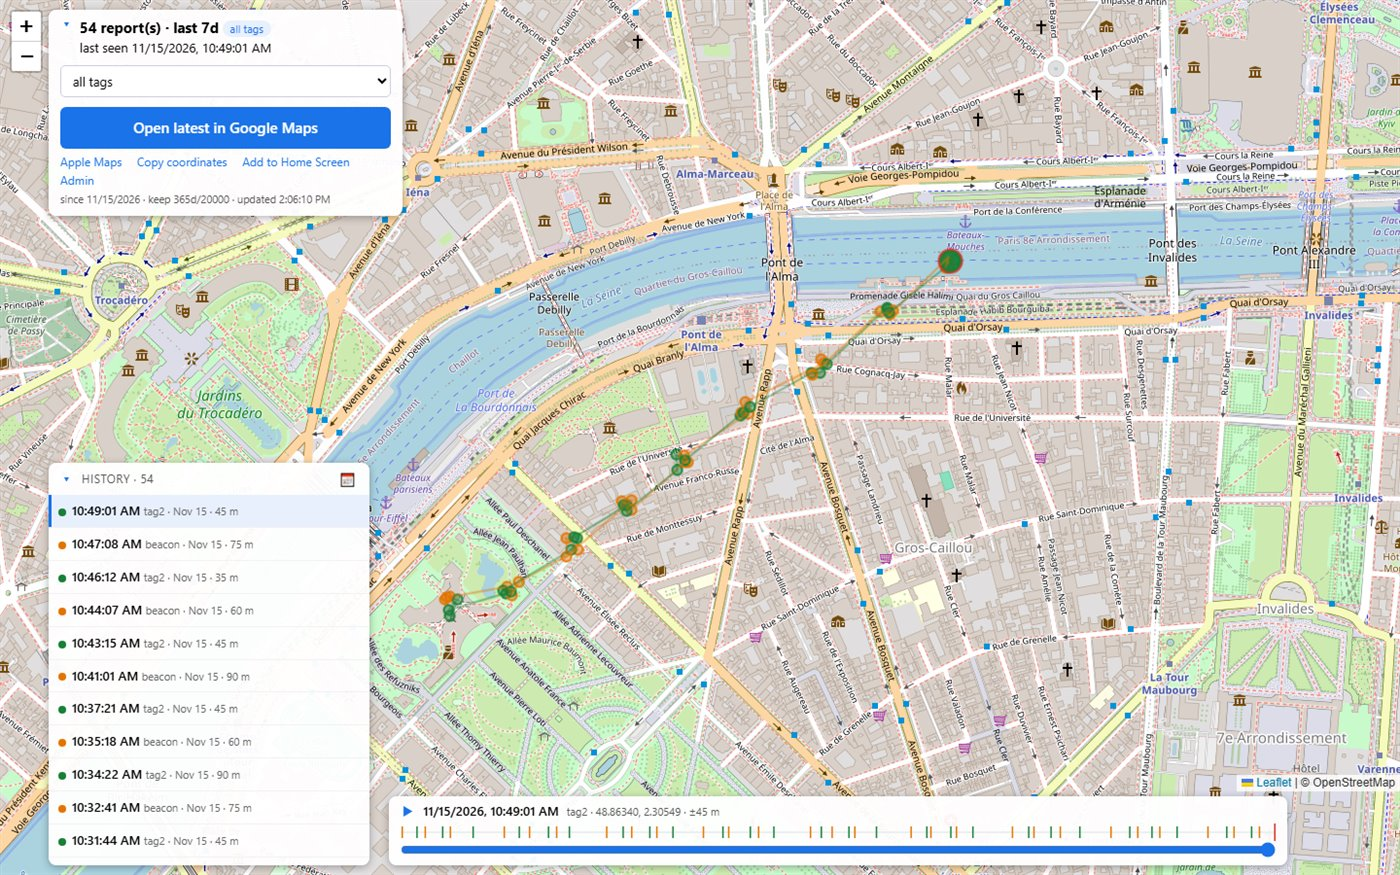
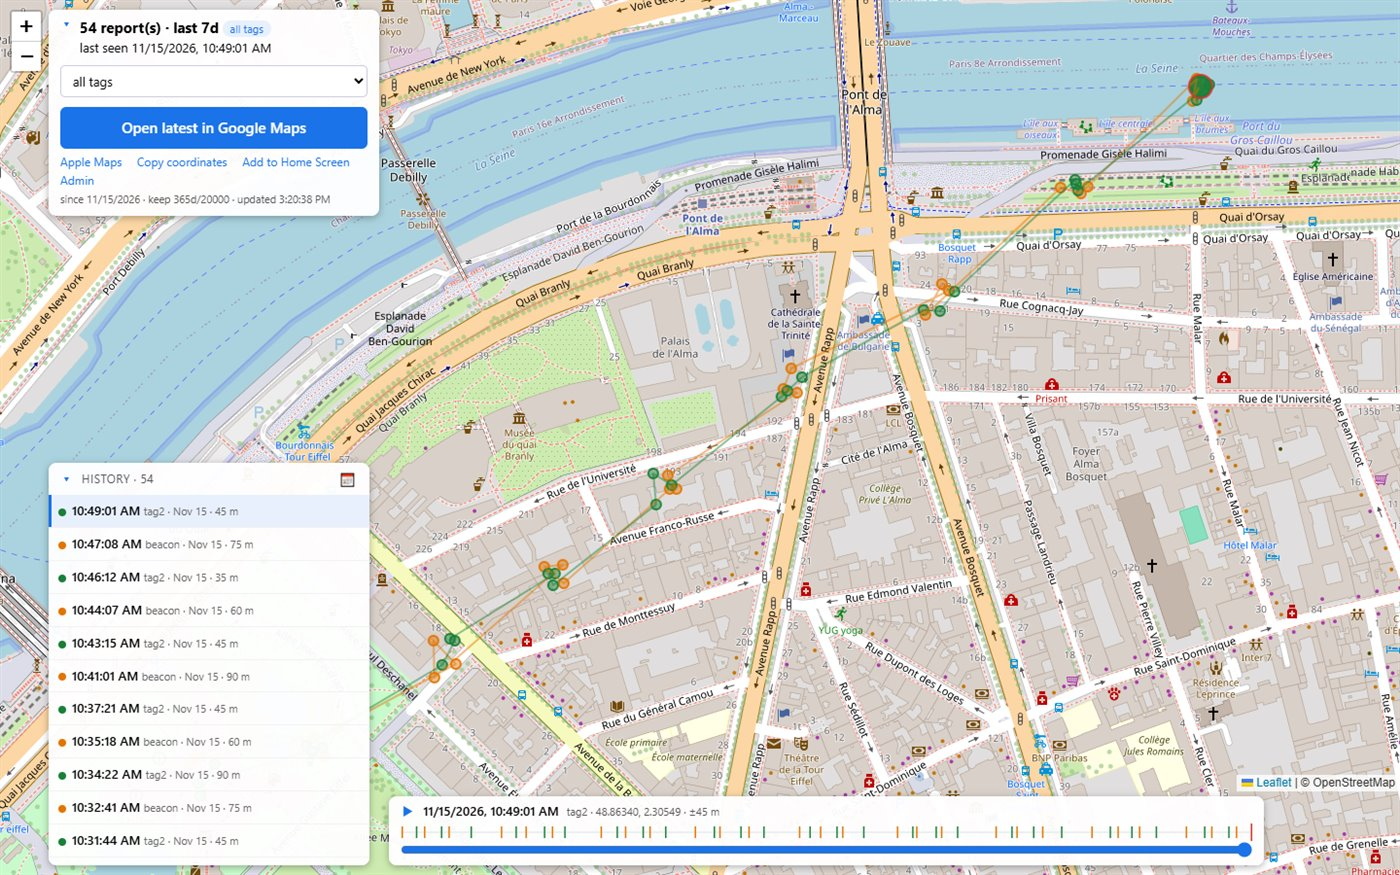
Add the printed case and images: board, buck module, case render, new screenshots

diff --git a/README.md b/README.md
@@ -26,10 +26,23 @@ real tag was there.*
 | Port | `COM9` — native USB Serial/JTAG (`VID 303A / PID 1001`) |
 | Antenna | U.FL external antenna — **must be attached**, BLE range is tiny without it |
 
+<p>
+  <img src="docs/images/xiao-esp32c3.svg" width="440" alt="XIAO ESP32-C3 top view with pin labels (illustration)">
+  <img src="docs/images/mp1584.jpg" width="330" alt="MP1584 buck converter module">
+</p>
+
+Left: the XIAO ESP32-C3 with its 5V pad marked — that pad is VBUS, see
+[Power](#power). Right: the MP1584 module used to drop 12 V to 5 V.
+
 ![Power path: 12 V → MP1584 → Schottky → XIAO 5V pin](docs/images/wiring.svg)
 
 The board has **no built-in user LED** (only a charge indicator). An external LED
 on `D10` through ~220 Ω is optional and blinks at 1 Hz.
+
+The MP1584 photo is by Matthew Berardi, cropped, licensed
+[CC BY-SA 4.0](https://creativecommons.org/licenses/by-sa/4.0/) — original on
+[Wikimedia Commons](https://commons.wikimedia.org/wiki/File:LM2596_buck_converter_module,_MP1584_buck_converter_module,_and_SDB628_boost_converter_module.jpg).
+The board drawing is a vector illustration, not a photograph.
 
 ### Power
 
@@ -48,6 +61,16 @@ Tested arrangement: a 3S LiPo (11.1–12.6 V) through an MP1584 buck set to 5.0 
 into the `5V` pin. That is also the car install: 12 V → buck → diode → `5V`.
 A 1S LiPo on the `BAT` pads is the alternative (onboard charger, leave the `5V`
 pin unconnected). At roughly 10–15 mA from the pack, a 1000 mAh 3S lasts days.
+
+### Case
+
+Two printable parts, `3D Case/beacon.stl` (body) and `3D Case/beacon_cap.stl`
+(cap): a 22 × 22 × 26 mm shell that holds the board and the buck converter
+together.
+
+![The case body and cap, rendered from the STLs](docs/images/case.png)
+
+*Rendered straight from the STLs in this repo.*
 
 ## Quick start
 
@@ -475,7 +498,9 @@ Alternatives:
 | `scripts/haystack/docker_up.sh` | dockerd + network + Anisette + image |
 | `scripts/haystack/Dockerfile` | Patched endpoint image |
 | `scripts/haystack/patched/` | Patched `pypush_gsa_icloud.py` |
-| `keys/beacon.priv.hex` | **Secret** — decrypts reports; gitignored |
+| `3D Case/beacon.stl` | Case body, printable (see [Case](#case)) |
+| `3D Case/beacon_cap.stl` | Case cap, printable |
+| `keys/beacon.priv.hex` | **Secret** - decrypts reports; gitignored |
 
 ## Users and the admin page
 
